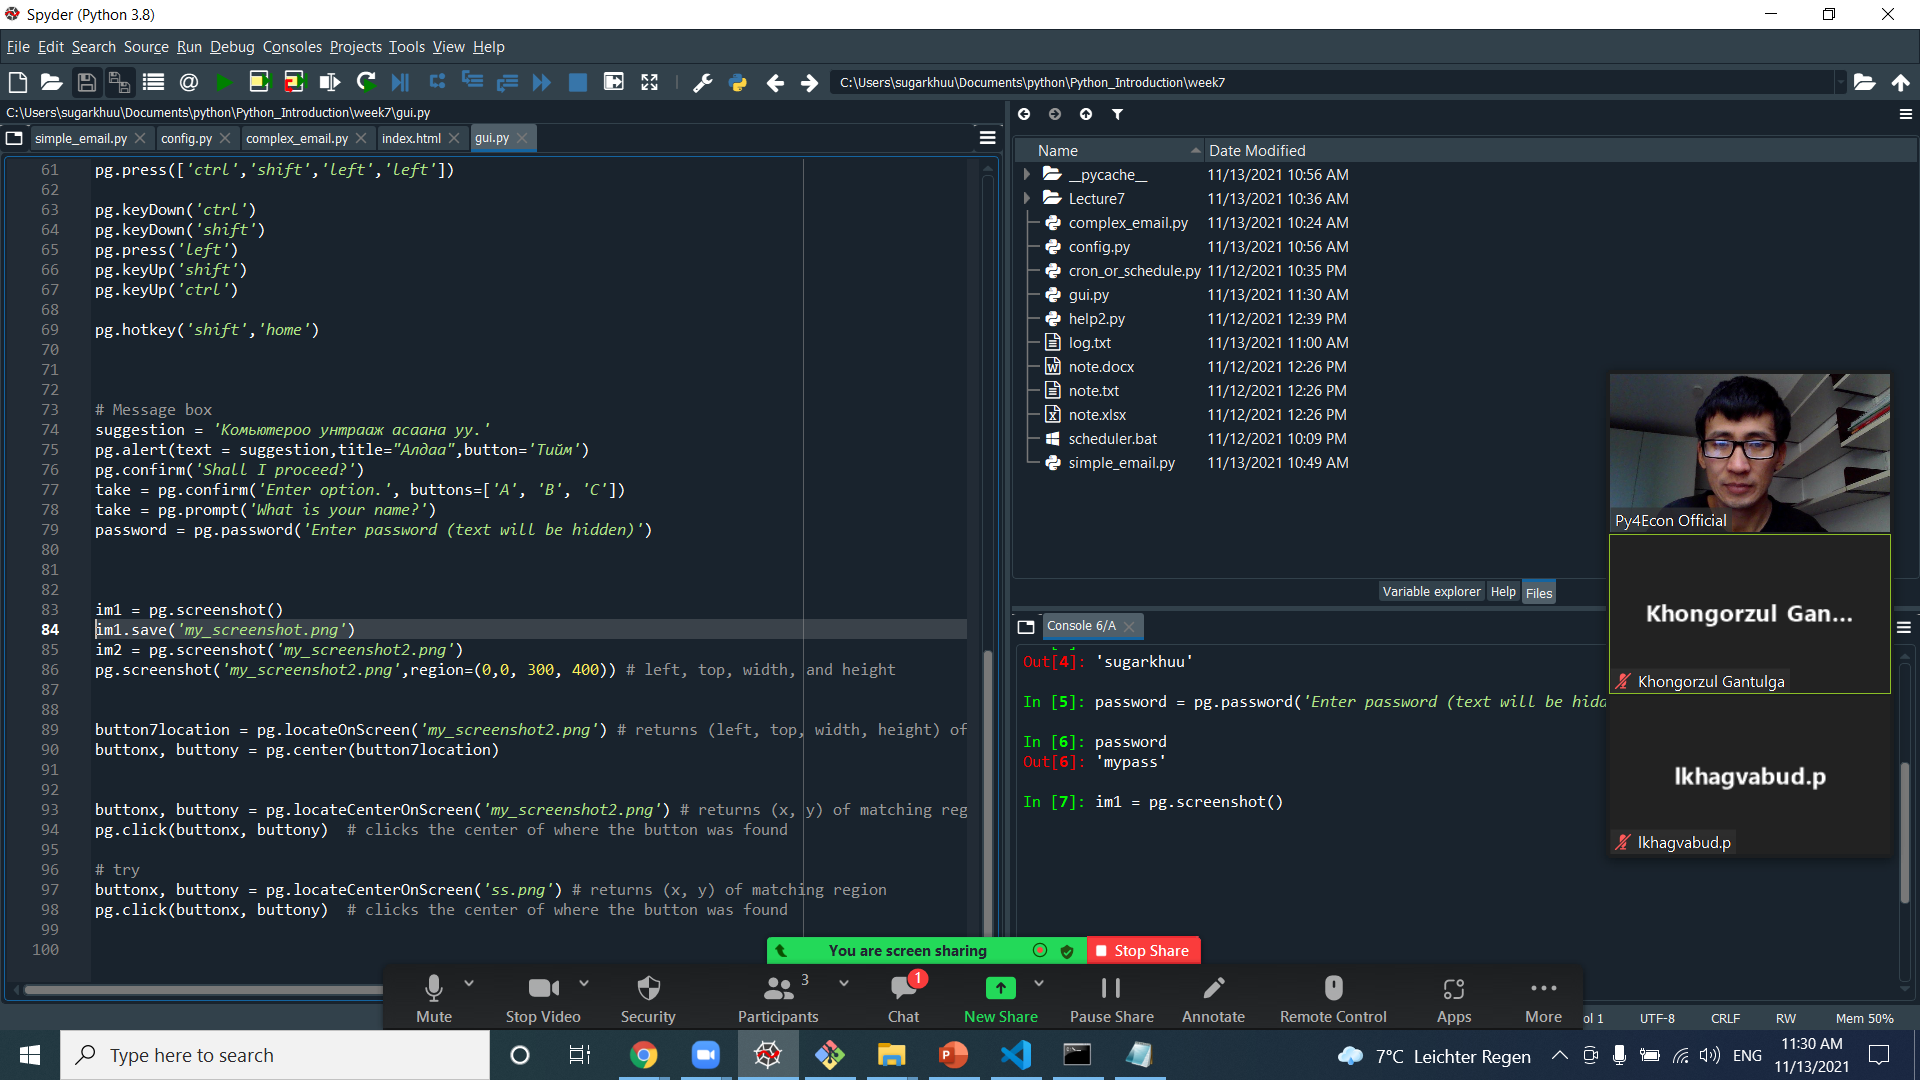
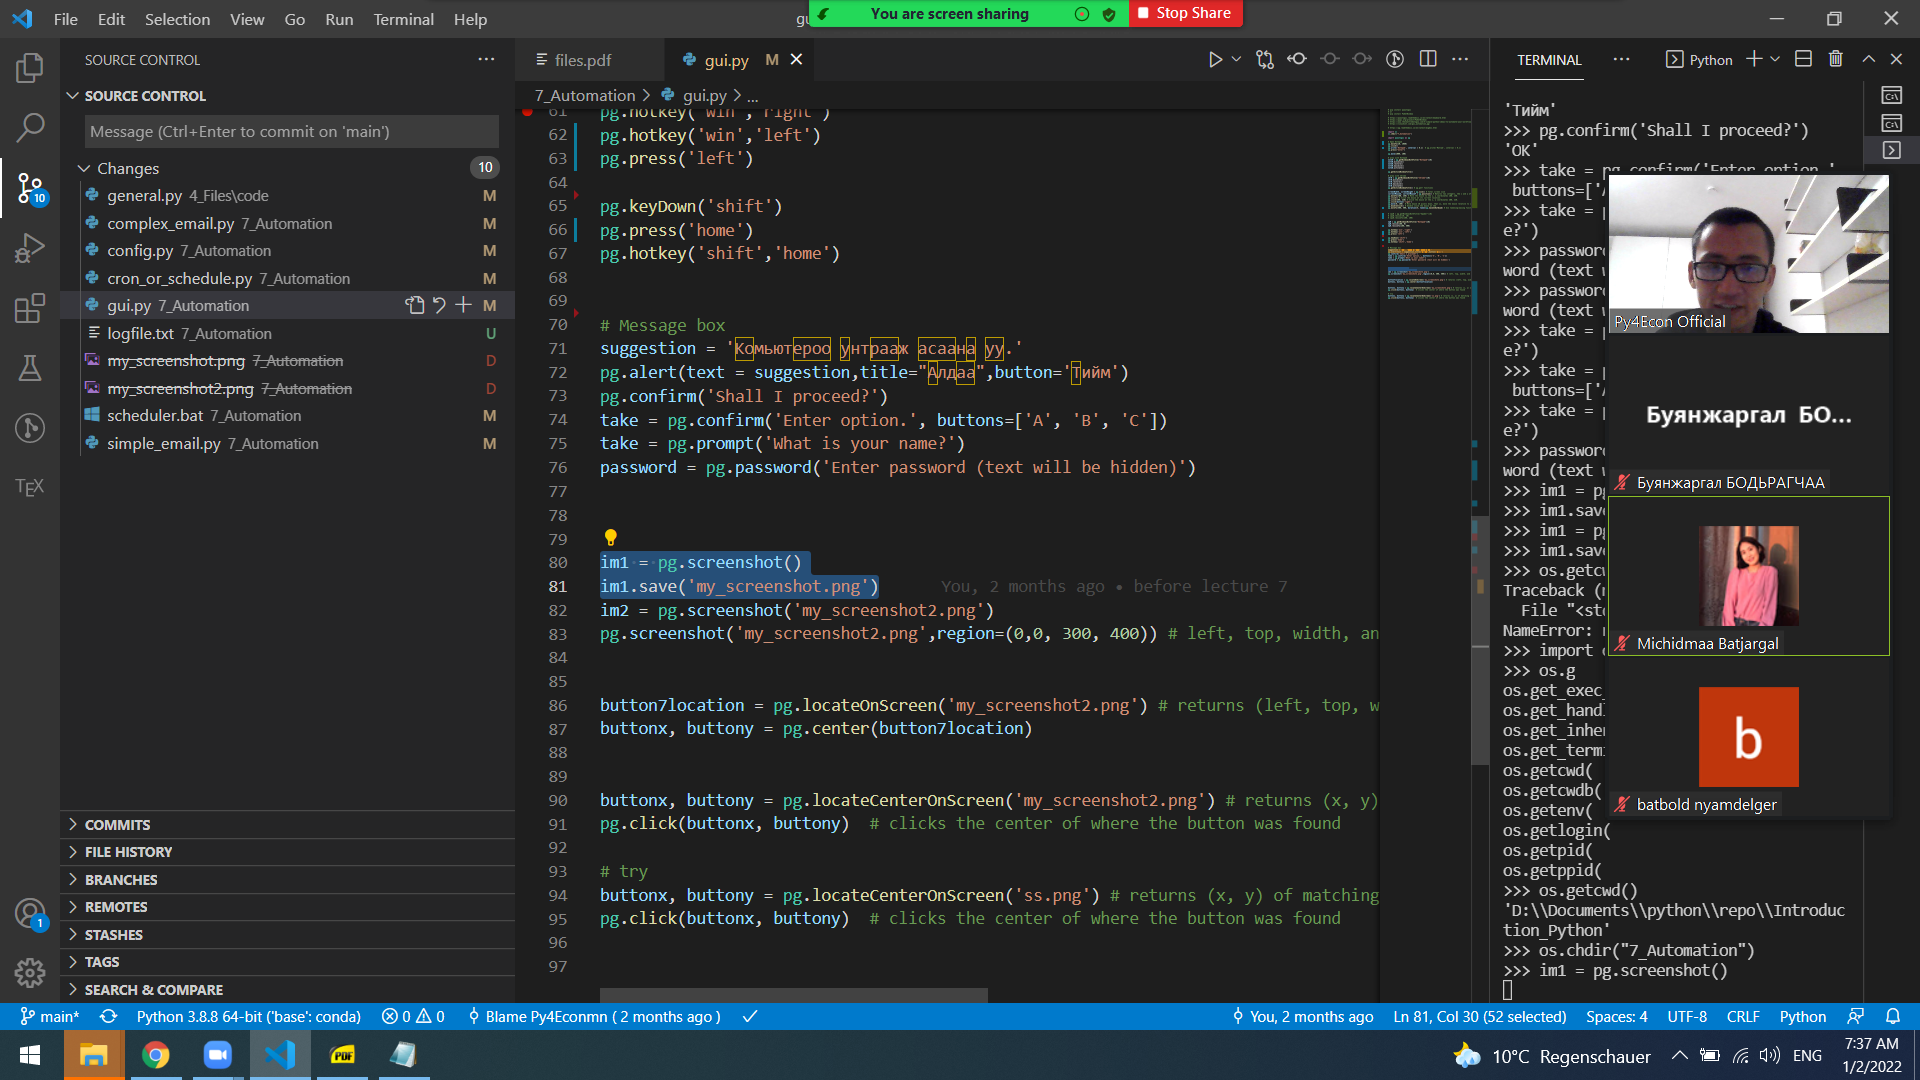
after lesson 7

diff --git a/7_Automation/complex_email.py b/7_Automation/complex_email.py
@@ -3,8 +3,8 @@
 # https://github.com/ColorlibHQ/email-templates
 
 ### 
-# https://stackoverflow.com/questions/920910/sending-multipart-html-emails-which-contain-embedded-images
-# https://www.pauldesalvo.com/sending-an-html-formatted-email-with-attachments-through-gmail-using-python/
+# Image - https://stackoverflow.com/questions/920910/sending-multipart-html-emails-which-contain-embedded-images
+# Attachment - https://www.pauldesalvo.com/sending-an-html-formatted-email-with-attachments-through-gmail-using-python/
 
 
 import smtplib
@@ -43,7 +43,7 @@ msg['To'] = config.To # ", ".join(recipients)
 
 
 # Record the MIME types of both parts - text/plain and text/html.
-html = open(r"C:\Users\sugarkhuu\Documents\python\repo\email-templates\2\index.html")
+html = open(r"email-templates\2\index.html")
 part1 = MIMEText(html.read(), 'html')
 
 # Attach parts into message container.
@@ -52,23 +52,23 @@ part1 = MIMEText(html.read(), 'html')
 msg.attach(part1)
 
 # take image files
-image1 = MIMEImage(open(r'C:\Users\sugarkhuu\Documents\python\repo\email-templates\2\images\about.jpg', 'rb').read())
-image2 = MIMEImage(open(r'C:\Users\sugarkhuu\Documents\python\repo\email-templates\2\images\blog-1.jpg', 'rb').read())
-image3 = MIMEImage(open(r'C:\Users\sugarkhuu\Documents\python\repo\email-templates\2\images\blog-2.jpg', 'rb').read())
-image4 = MIMEImage(open(r'C:\Users\sugarkhuu\Documents\python\repo\email-templates\2\images\person_1.jpg', 'rb').read())
-image5 = MIMEImage(open(r'C:\Users\sugarkhuu\Documents\python\repo\email-templates\2\images\person_2.jpg', 'rb').read())
-image6 = MIMEImage(open(r'C:\Users\sugarkhuu\Documents\python\repo\email-templates\2\images\person_3.jpg', 'rb').read())
-image7 = MIMEImage(open(r'C:\Users\sugarkhuu\Documents\python\repo\email-templates\2\images\work-1.jpg', 'rb').read())
-image8 = MIMEImage(open(r'C:\Users\sugarkhuu\Documents\python\repo\email-templates\2\images\work-2.jpg', 'rb').read())
-image9 = MIMEImage(open(r'C:\Users\sugarkhuu\Documents\python\repo\email-templates\2\images\work-3.jpg', 'rb').read())
-image10 = MIMEImage(open(r'C:\Users\sugarkhuu\Documents\python\repo\email-templates\2\images\work-4.jpg', 'rb').read())
-image11 = MIMEImage(open(r'C:\Users\sugarkhuu\Documents\python\repo\email-templates\2\images\work-5.jpg', 'rb').read())
-image12 = MIMEImage(open(r'C:\Users\sugarkhuu\Documents\python\repo\email-templates\2\images\work-6.jpg', 'rb').read())
-image13 = MIMEImage(open(r'C:\Users\sugarkhuu\Documents\python\repo\email-templates\2\images\work-7.jpg', 'rb').read())
-image14 = MIMEImage(open(r'C:\Users\sugarkhuu\Documents\python\repo\email-templates\2\images\work-8.jpg', 'rb').read())
-image15 = MIMEImage(open(r'C:\Users\sugarkhuu\Documents\python\repo\email-templates\2\images\bg_1.jpg', 'rb').read())
-image16 = MIMEImage(open(r'C:\Users\sugarkhuu\Documents\python\repo\email-templates\2\images\bg_2.jpg', 'rb').read())
-image17 = MIMEImage(open(r'C:\Users\sugarkhuu\Documents\python\repo\email-templates\2\images\002-play-button.png', 'rb').read())
+image1 = MIMEImage(open(r'email-templates\2\images\about.jpg', 'rb').read())
+image2 = MIMEImage(open(r'email-templates\2\images\blog-1.jpg', 'rb').read())
+image3 = MIMEImage(open(r'email-templates\2\images\blog-2.jpg', 'rb').read())
+image4 = MIMEImage(open(r'email-templates\2\images\person_1.jpg', 'rb').read())
+image5 = MIMEImage(open(r'email-templates\2\images\person_2.jpg', 'rb').read())
+image6 = MIMEImage(open(r'email-templates\2\images\person_3.jpg', 'rb').read())
+image7 = MIMEImage(open(r'email-templates\2\images\work-1.jpg', 'rb').read())
+image8 = MIMEImage(open(r'email-templates\2\images\work-2.jpg', 'rb').read())
+image9 = MIMEImage(open(r'email-templates\2\images\work-3.jpg', 'rb').read())
+image10 = MIMEImage(open(r'email-templates\2\images\work-4.jpg', 'rb').read())
+image11 = MIMEImage(open(r'email-templates\2\images\work-5.jpg', 'rb').read())
+image12 = MIMEImage(open(r'email-templates\2\images\work-6.jpg', 'rb').read())
+image13 = MIMEImage(open(r'email-templates\2\images\work-7.jpg', 'rb').read())
+image14 = MIMEImage(open(r'email-templates\2\images\work-8.jpg', 'rb').read())
+image15 = MIMEImage(open(r'email-templates\2\images\bg_1.jpg', 'rb').read())
+image16 = MIMEImage(open(r'email-templates\2\images\bg_2.jpg', 'rb').read())
+image17 = MIMEImage(open(r'email-templates\2\images\002-play-button.png', 'rb').read())
 
 
 # Define the image's ID as referenced in the HTML body above

diff --git a/7_Automation/gui.py b/7_Automation/gui.py
@@ -9,22 +9,25 @@
 
 # https://pg.readthedocs.io/en/latest/msgbox.html
 
+import os
+os.chdir("7_Automation")
+
 import pyautogui as pg
 
-# Open Matlab
-pg.moveTo(100, 1060) 
+# Open Notepad
+pg.moveTo(10, 1060) 
 pg.click()  
-pg.write('Notepad', interval = 0.25)  # pg.write('Matlab', interval = 0.1)  
+pg.write('Notepad', interval = 0.1)  # pg.write('Matlab', interval = 0.1)  
 pg.press("enter")  
 
 pg.move(1000, 100) 
 
 # play with Notepad
-matW = pg.getWindowsWithTitle("Notepad")[0]
-matW.minimize()
-matW.restore()
-matW.maximize()
-matW.activate()
+noteW = pg.getWindowsWithTitle("Notepad")[0]
+noteW.minimize()
+noteW.restore()
+noteW.maximize()
+noteW.activate()
 
 pg.getActiveWindowTitle()
 
@@ -44,30 +47,24 @@ pg.click(200, 220) # Click the mouse at the x, y coordinates 200, 220.
 pg.click(button='right')
 pg.move(0, 100)  # Move mouse 10 pixels down, that is, move the mouse relative to its current position.
 pg.doubleClick() # Double click the mouse at the
-pg.moveTo(500, 500, duration=2, tween=pg.easeInOutQuad) # Use tweening/easing function to move mouse over 2 seconds.
+pg.moveTo(500, 500, duration=5, tween=pg.easeInOutQuad) # Use tweening/easing function to move mouse over 2 seconds.
 
 
-spyW = pg.getWindowsWithTitle("Spyder")[0]
-spyW.resize(10, 10)
-spyW.resizeTo(100, 100)
+# spyW = pg.getWindowsWithTitle("Spyder")[0]
+# spyW.resize(10, 10)
+# spyW.resizeTo(100, 100)
 
 npW = pg.getWindowsWithTitle("Notepad")[0]
 npW.resize(100, 0)
-npW.resizeTo(100, 100)
+npW.resizeTo(100, 500)
 
 pg.hotkey('win','right')
-
-# 
-pg.press(['ctrl','shift','left','left'])
-
-pg.keyDown('ctrl')
-pg.keyDown('shift')
+pg.hotkey('win','left')
 pg.press('left')
-pg.keyUp('shift')
-pg.keyUp('ctrl')
 
+pg.keyDown('shift')
+pg.press('home')
 pg.hotkey('shift','home')
-
 
 
 # Message box
@@ -85,7 +82,9 @@ im1.save('my_screenshot.png')
 im2 = pg.screenshot('my_screenshot2.png')
 pg.screenshot('my_screenshot2.png',region=(0,0, 300, 400)) # left, top, width, and height
 
-    
+  
+
+# locating on screen - not finished
 button7location = pg.locateOnScreen('my_screenshot2.png') # returns (left, top, width, height) of matching region
 buttonx, buttony = pg.center(button7location)
     
@@ -96,4 +95,3 @@ pg.click(buttonx, buttony)  # clicks the center of where the button was found
 # try
 buttonx, buttony = pg.locateCenterOnScreen('ss.png') # returns (x, y) of matching region
 pg.click(buttonx, buttony)  # clicks the center of where the button was found
-

diff --git a/7_Automation/simple_email.py b/7_Automation/simple_email.py
@@ -5,6 +5,10 @@
 # https://www.google.com/settings/security/lesssecureapps
 # Chrome - Account - Security - Less secure apps access
 
+import os
+print('Working directory at: ', os.getcwd())
+# os.chdir(r'7_Automation')
+
 
 import smtplib # to connect to email client
 from email.mime.multipart import MIMEMultipart # managing email msg
@@ -12,9 +16,7 @@ from email.mime.text import MIMEText           # managing email msg
 import pandas as pd
 import config # config.py file with info/credentials
 import logging
-import os
 
-os.chdir(r'C:\Users\sugarkhuu\Documents\python\Python_Introduction\week7')
 
 
 # mail content
@@ -25,7 +27,7 @@ msg['To'] = config.To # ", ".join(recipients)
 msg['CC'] = "sugarkhuul@gmail.com"
 msg['BCC'] = "sugarkhuu.radnaa@gmail.com"
 
-text = "Hello, \n This is body of the message. Best,\n Sugarkhuu"
+text = "Hello, \n Өдрийн мэнд хүргэе. Best,\n Sugarkhuu"
 part1 = MIMEText(text, 'plain')
 msg.attach(part1)
 
@@ -35,10 +37,10 @@ mail.ehlo()
 mail.starttls()
 mail.login(config.From, config.PASSWORD)
 
-print(logging.info('Just quit the mail client.') )
+# print(logging.info('Just quit the mail client.') )
 
 try:
-    mail.sendmail(msg['From'], msg['To'] + ", "+msg['CC']+", "+msg['BCC'], msg.as_string())
+    mail.sendmail(msg['From'], msg['To'] + ", " + msg['CC'] + ", "+ msg['BCC'], msg.as_string())
     print("Success: Email sent!")
 except Exception as e:
     print(e)
@@ -46,4 +48,10 @@ except Exception as e:
   
 mail.quit()
 
-logging.info('Just quit the mail client.') 
+# logging.basicConfig(level=logging.INFO, file='sample.log')
+# # logging.basicConfig(filename='example.log', encoding='utf-8', level=logging.DEBUG)
+# logging.debug('This message should go to the log file')
+# logging.info('So should this')
+# logging.warning('And this, too')
+# # logging.error('And non-ASCII stuff, too, like Øresund and Malmö')
+# print(logging.info('Just quit the mail client.'))

diff --git a/7_Automation/config.py b/7_Automation/config.py
@@ -1,6 +1,7 @@
 import getpass
 
 From = "py4econ@gmail.com" # the email address to send the info from
-To   = "py4econoct21@gmail.com"
-PASSWORD  = getpass.getpass('Enter your email password, please: ')
+To   = "py4econoct21@gmail.com" #"boduush1111@gmail.com" #"py4econoct21@gmail.com"
+PASSWORD  = "Mypass1!" #getpass.getpass('Enter your email password, please: ') #"Mypass1!"
+# getpass.getpass('Enter your email password, please: ')
 

diff --git a/4_Files/code/general.py b/4_Files/code/general.py
@@ -70,6 +70,6 @@ for line in f:
     print(line, end = '')
 
 
-# REcognize cyrillic Mongolian letters - utf-8-sig
-df = pd.read_excel('cyrillic.xlsx')
-df.to_csv('cyr.csv',encoding='utf-8-sig') # if cyrillic MNG is not recognized
+# # REcognize cyrillic Mongolian letters - utf-8-sig
+# df = pd.read_excel('cyrillic.xlsx')
+# df.to_csv('cyr.csv',encoding='utf-8-sig') # if cyrillic MNG is not recognized

diff --git a/7_Automation/cron_or_schedule.py b/7_Automation/cron_or_schedule.py
@@ -7,6 +7,5 @@
 # Name your task. That is it!
 # 
 
-
-# Multiple git
-# https://code.tutsplus.com/tutorials/quick-tip-how-to-work-with-github-and-multiple-accounts--net-22574
+# Crontab on Mac
+# https://www.jcchouinard.com/python-automation-with-cron-on-mac/
